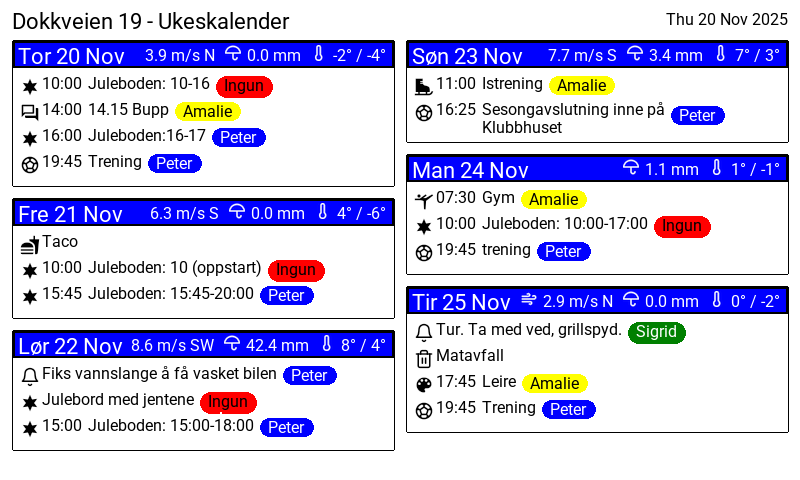
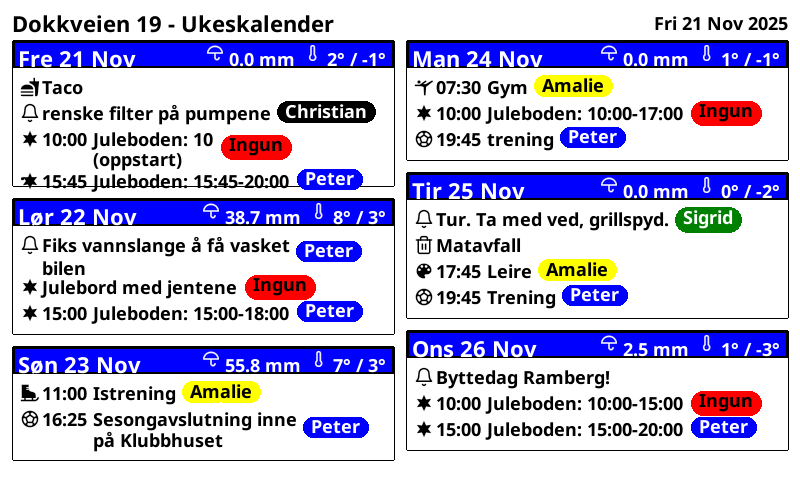
Initial push of InkyFrame project

diff --git a/layout_renderer.py b/layout_renderer.py
@@ -20,8 +20,8 @@ ASSETS_DIR = os.path.join(os.path.dirname(__file__), "assets")
 FONTS_DIR = os.path.join(ASSETS_DIR, "fonts")
 ICONS_DIR = os.path.join(ASSETS_DIR, "icons")
 
-DEFAULT_FONT = os.path.join(FONTS_DIR, "Roboto-Regular.ttf")
-DEFAULT_BOLD_FONT = os.path.join(FONTS_DIR, "Roboto-Regular.ttf")
+DEFAULT_FONT = os.path.join(FONTS_DIR, "NotoSans-Bold.ttf")
+DEFAULT_BOLD_FONT = os.path.join(FONTS_DIR, "NotoSans-Bold.ttf")
 
 ICON_NAME_MAP = {
     "clearsky_day": "sun",

diff --git a/main.py b/main.py
@@ -28,7 +28,7 @@ opts = {
     "header_text_color": "WHITE",
     "dotted_line_between_events": True,
     "event_vspacing": 14,
-    "font_small_size": 16,
+    "font_small_size": 18,
     "font_bold_size": 22,
     "dot_gap": 200,
     "dot_color": "WHITE",
